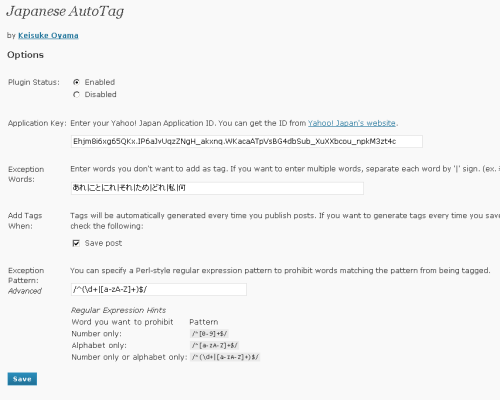
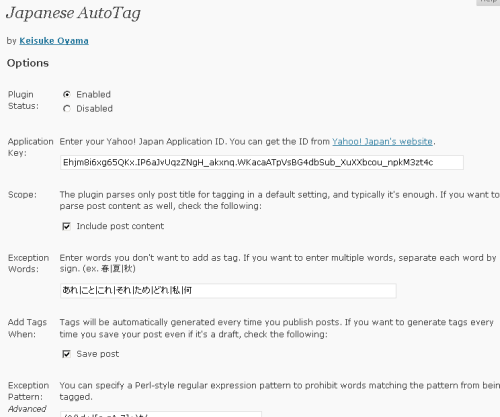
Added Scope option to enable content body base tagging.
git-svn-id: https://plugins.svn.wordpress.org/japanese-autotag/trunk@165422 b8457f37-d9ea-0310-8a92-e5e31aec5664

diff --git a/japanese-autotag.php b/japanese-autotag.php
@@ -1,7 +1,7 @@
 <?php
 /*
 Plugin Name: Japanese Autotag
-Version: 0.2.9
+Version: 0.2.10
 Description: Automatically inserts tags by post titles.
 Author: Keisuke Oyama
 Author URI: http://keicode.com/
@@ -29,6 +29,7 @@ class JapaneseAutoTag {
 	var $enabled;
 	var $add_on_publish_post;
 	var $add_on_save_post;
+	var $parse_body;
 	
 	function JapaneseAutoTag() {
 	
@@ -37,7 +38,8 @@ class JapaneseAutoTag {
 		$this->add_on_publish_post = $options['add_on_publish_post'];
 		$this->add_on_save_post    = $options['add_on_save_post'];
 		$this->enabled = $options['enabled'];
-	
+		$this->parse_body = $options['parse_body'];
+		
 		add_action( 'save_post', array(&$this, 'on_save_post' ) );
 		add_action( 'publish_post', array(&$this, 'on_publish_post') );
 		add_action( 'admin_menu', array(&$this, 'admin_menu') );
@@ -81,7 +83,8 @@ class JapaneseAutoTag {
 			'noiselist' => 'あれ|こと|これ|それ|ため|どれ|私|何',
 			'expattern' => '',
 			'add_on_publish_post' => 'on',
-			'add_on_save_post' => 'off'
+			'add_on_save_post' => 'off',
+			'parse_body' => 'off'
 		);
 		
 		$saved = get_option( $this->db_option );
@@ -122,6 +125,9 @@ class JapaneseAutoTag {
 			$options['add_on_save_post'] 
 				= $this->add_on_save_post
 				= ($_POST['add_on_save_post'] === 'on') ? 'on' : 'off';
+			$options['parse_body']
+				= $this->parse_body
+				= ($_POST['parse_body'] === 'on') ? 'on' : 'off';
 			
 			update_option( $this->db_option, $options );
 			
@@ -141,6 +147,7 @@ class JapaneseAutoTag {
 		$add_on_save_post = $options['add_on_save_post'];
 		$enabled = $options['enabled'];
 		$action_url = $_SERVER['REQUEST_URI'];
+		$parse_body = $options['parse_body'];
 		
 		include ( 'japanese-autotag-options.php' );
 	
@@ -244,7 +251,7 @@ class JapaneseAutoTag {
 			}
 		}
 		
-		return $result;
+		return array_unique($result);
 	
 	} 
 	
@@ -261,10 +268,16 @@ class JapaneseAutoTag {
 				
 		$p = get_post( $post_id );
 		
+		$t = $p->post_title;
+		
+		if( $this->parse_body === 'on' ){
+			$t .= ' ' . strip_tags($p->post_content); 
+		}
+		
 		// Tokenize		
 		return $this->get_word_array(
 			$options['appkey'], 
-			$p->post_title,
+			$t,
 			'9',
 			$noise,
 			str_replace('\\\\', '\\', $options['expattern']) );

diff --git a/japanese-autotag-options.php b/japanese-autotag-options.php
@@ -20,6 +20,14 @@ by <strong><a href="http://keicode.com/">Keisuke Oyama</a></strong>
 <p><input type="text" style="width:600px;" name="appkey" value="<?php echo $appkey; ?>"></p>
 </td>
 </tr>
+<tr><td valign="top"><p>Scope:</p></td><td>
+<p>
+The plugin parses only post title for tagging in a default setting, and typically it's enough. If you want to parse post content as well, check the following: 
+</p>
+<p>
+<input type="checkbox" name="parse_body" value="on" <?php if( $parse_body === 'on' ) { echo 'checked'; } ?>> Include post content
+</p>
+</td></tr>
 <tr><td valign="top"><p>Exception Words:</p></td><td>
 <p>
 Enter words you don't want to add as tag. If you want to enter multiple words, separate each word by '|' sign. (ex. 春|夏|秋)
